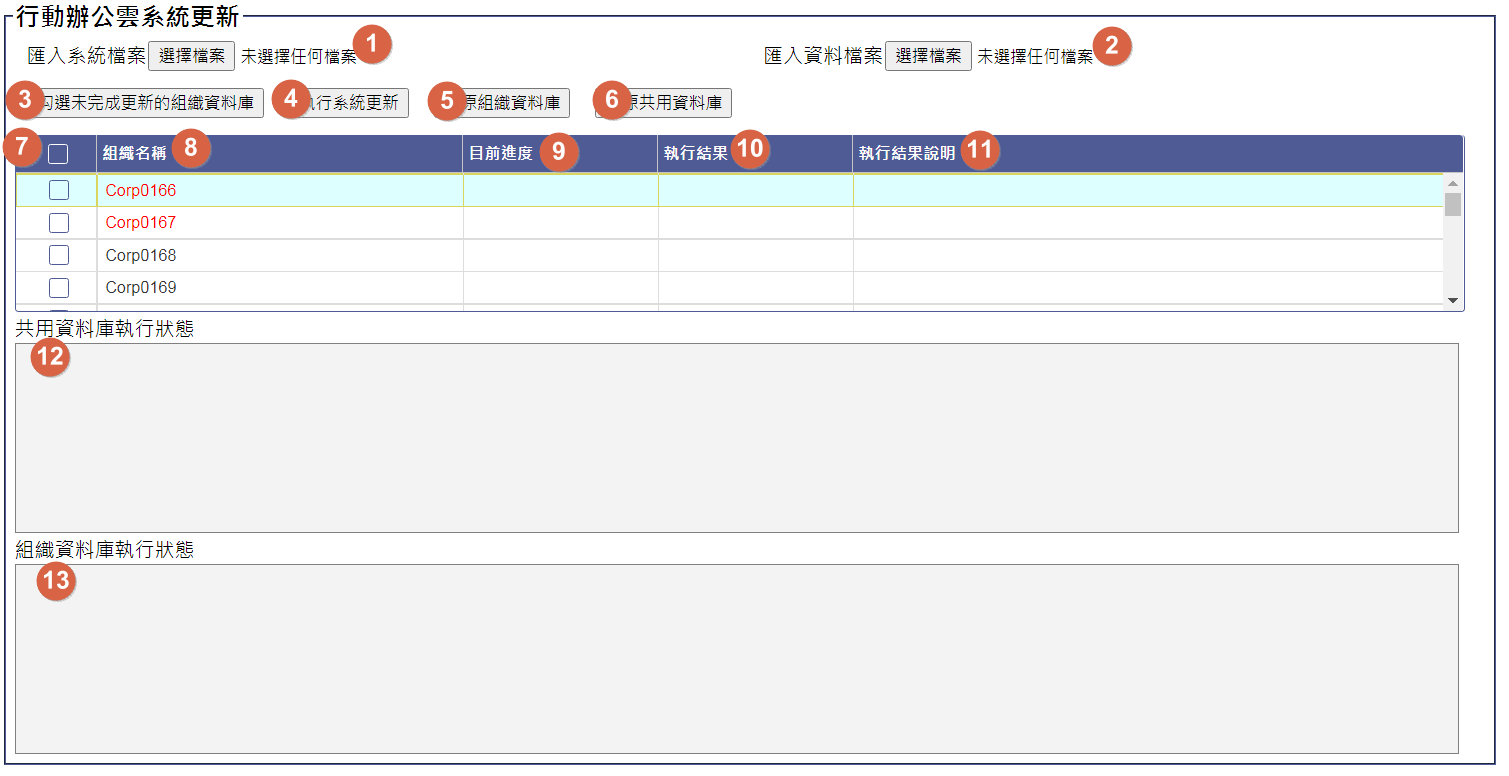
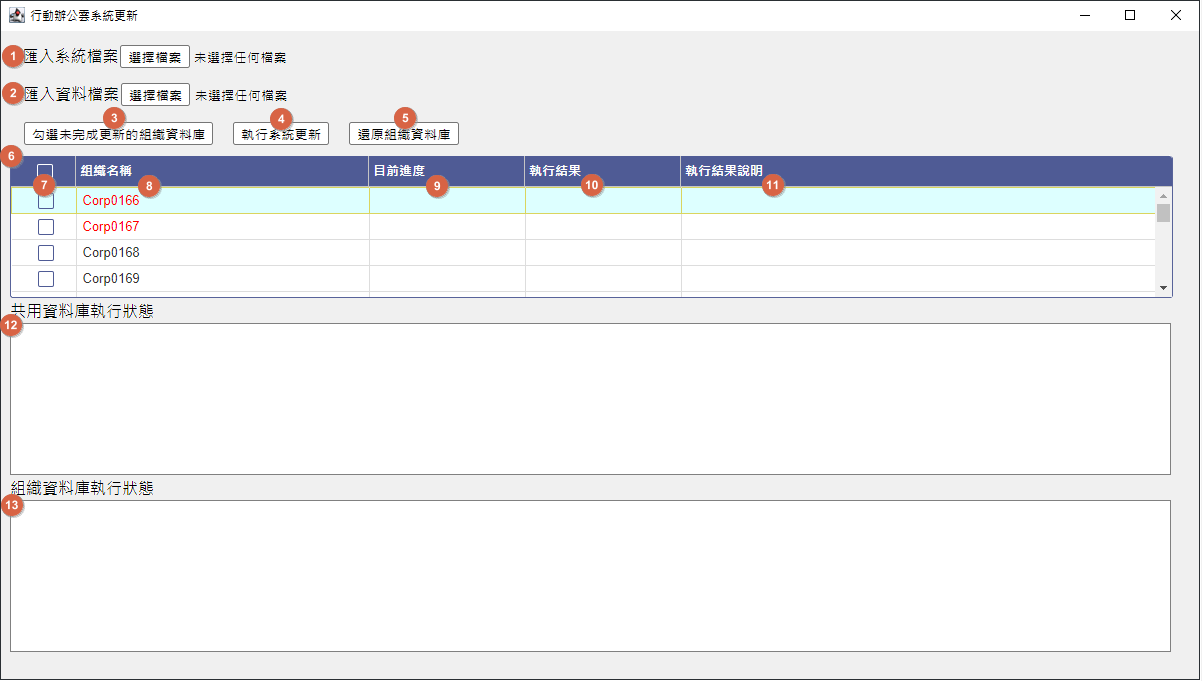
#9196  華碩行動辦公雲-更新MDB檔案程式

diff --git a/asus/ASUSMaintainTool/MDBUpdate/SA/README.md b/asus/ASUSMaintainTool/MDBUpdate/SA/README.md
@@ -11,12 +11,14 @@
             * 組織序號
 
 * 欄位說明 : 依據上圖畫面中依序說明欄位
-    * `(1)匯入系統檔案`
+    * `(1)匯入系統安裝檔案`
         * 檔案欄位
         * 點擊欄位後，顯示作業系統視窗，讓維護人員挑選要進行更新的行動辦公雲系統包裝檔案。
-    * `(2)匯入權限檔案`
+            * 選取系統安裝檔後，將 "未選擇任何檔案" 置換成 "路徑+檔名"。例: D:\Update\PJ000000000012_22C044.mdb
+    * `(2)匯入權限資料檔案`
         * 檔案欄位
         * 點擊欄位後，顯示作業系統視窗，讓維護人員挑選要進行更新的行動辦公雲權限包裝檔案。
+            * 選取資料檔案後，將 "未選擇任何檔案" 置換成 "路徑+檔名"。例: D:\Update\PJ000000000012_UTL.mdb
     * `(3)勾選未完成更新的組織資料庫`
         * 按鈕元件
         * 點擊按鈕後，自動勾選未完成更新組織資料庫的checkbox。
@@ -33,11 +35,11 @@
         * 按鈕元件
         * 點擊後，依據目前勾選的組織資料庫名稱，取得本系統更新程式指定的備份路徑下的備份檔案進行還原
             * 若找不到備份檔案的組織資料庫，提示錯誤訊息 : 備份路徑下無此組織資料庫備份檔案
-    * `(6)還原共用資料庫`
-        * 按鈕元件
-        * 點擊後，取得本系統更新程式指定的備份路徑下的共用資料庫備份檔案進行還原
-            * 若找不到共用資料庫的備份檔案，提示錯誤訊息 : 備份路徑下無共用資料庫備份檔案
-    * `(5)勾選/取消勾選組織資料庫`
+    * `(6)組織資料庫清單`
+        * Table
+        * 預設一頁顯示 **4** 筆，超出現垂直捲軸
+        * 表格可調整高度決定顯示筆數
+    * `(7)勾選/取消勾選組織資料庫`
         * Checkbox
         * 點擊標題列的Checkbox，執行以下動作
             * 若該元件目前未勾選則變更為勾選，且將所有組織資料庫的Checkbox變為勾選。
@@ -45,25 +47,28 @@
         * 點擊資料列的Checkbox，執行以下動作
             * 若該元件目前未勾選則變更為勾選，且將該筆組織資料庫的Checkbox變為勾選。
             * 若該元件目前已勾選則變更為未勾選，且將該筆組織資料庫的Checkbox變為未勾選。
-    * `(6)組織名稱`
+    * `(8)組織名稱`
         * 顯示欄位
         * 檢視組織資料庫名稱。
         * 若該組織資料庫有執行過更新，但是更新狀態尚未完成，則以紅色字體顯示。
-    * `(7)目前進度`
+    * `(9)目前進度`
         * 顯示欄位
-        * 開始更新該組織資料庫時，顯示更新進度用。
-    * `(8)執行結果`
+        * 開始更新該組織資料庫時，顯示更新進度，顯示內容: 百分比 (目前更新數/總數量)。
+    * `(10)執行結果`
         * 顯示欄位
-        * 更新該組織資料庫時，顯示更新結果是否成功。
-    * `(9)執行結果說明`
+        * 更新該組織資料庫時，顯示更新結果是否成功，顯示內容: (成功/失敗)。
+    * `(11)執行結果說明`
         * 顯示欄位
         * 更新該組織資料庫時，若執行失敗則顯示錯誤訊息。
-    * `(10)共用資料庫執行狀態`
+        * 可雙擊開啟視窗顯示完整內容。
+    * `(12)共用資料庫執行狀態`
         * 顯示欄位
         * 開始更新共用資料庫時，顯示共用資料庫更新的明細訊息。
-    * `(11)組織資料庫執行狀態`
+        * 可雙擊開啟視窗顯示完整內容。
+    * `(13)組織資料庫執行狀態`
         * 顯示欄位
         * 開始更新組織資料庫時，累計顯示所有更新組織資料庫的明細訊息。
+        * 可雙擊開啟視窗顯示完整內容。
 
 ### <div id="flow">作業流程</div>
 * 開啟畫面

diff --git a/asus/ASUSMaintainTool/MDBUpdate/README.md b/asus/ASUSMaintainTool/MDBUpdate/README.md
@@ -8,3 +8,7 @@
     * 指定要更新的組織資料庫清單
     * 執行更新
 * 至AP Server，使用CURL呼叫本機RTE的退出維護模式API
+
+
+### <div id="notice">注意事項</div>
+* 權限資料檔的更新目前只支援更新組織資料庫。
